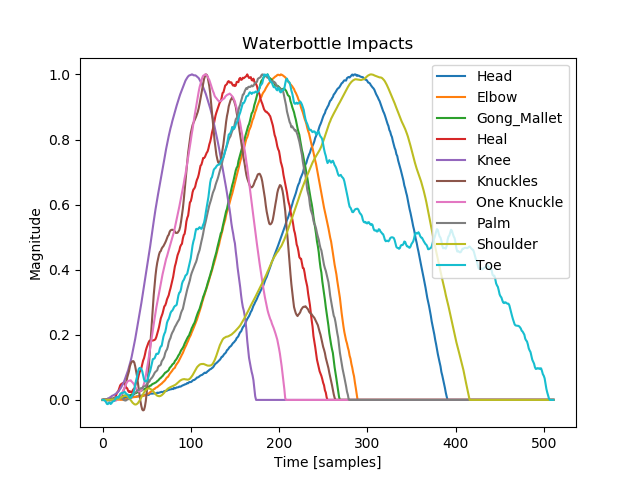
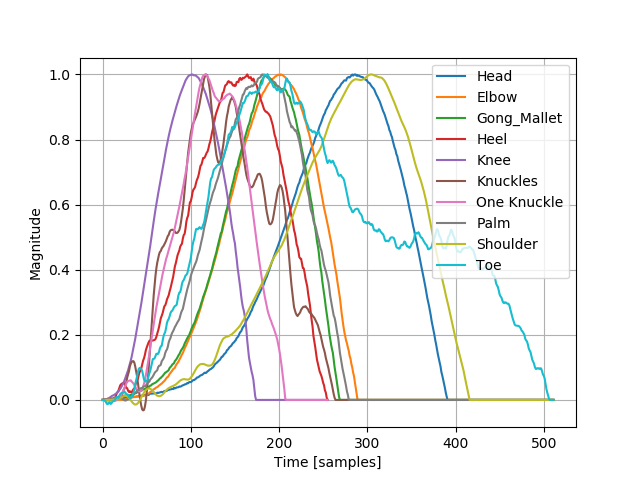
Update a bunch of plots [ci skip]

diff --git a/hydroflask_water_mode_analysis.py b/hydroflask_water_mode_analysis.py
@@ -12,39 +12,56 @@ x_long = np.linspace(0, 1, 100)
 # %%
 # plt.figure()
 # mode_freqs = np.abs(mode_data[:,0])
-# plt.plot(x, mode_freqs)
+# plt.scatter(x, mode_freqs, marker='x', color='r', label='Measured')
 
 # z_freq = np.polyfit(x, mode_freqs, 3)
 # p_freq = np.poly1d(z_freq)
-# plt.plot(x_long, p_freq(x_long))
+# plt.plot(x_long, p_freq(x_long), label='Modelled')
 # print('Freq function:')
 # print(p_freq)
 
-# plt.title('First mode frequency vs water amount')
+# # plt.title('First mode frequency vs water amount')
 # plt.ylabel('Frequency [Hz]')
 # plt.xlabel('Water as fraction of bottle volume')
 # plt.xticks(x, ['0', '1/32', '1/16', '1/8', '1/4', '1/2', '1'])
-# plt.legend(['Measured', 'Modelled'])
+# plt.legend()
+# plt.grid()
+# plt.savefig('Figures/Water_Freq.png')
 
 # %%
 plt.figure()
+colors = ['r', 'k']
 for i in range(2):
     mode_damps = np.abs(mode_data[:,40+i])
-    plt.plot(x, mode_damps, label='Mode #{}'.format(i+1))
+    tau_gains = np.exp(-1.0 / mode_damps)
+    t60s = np.log(0.001) / (48000 * np.log(tau_gains))
+    plt.scatter(x, t60s, label='Mode #{}'.format(i+1), marker='x', color=colors[i])
 
-mode_damps = np.mean(np.abs(mode_data[:,40:42]), axis=1)
-# plt.plot(x, mode_damps, label='Avg')
+mode_damps1 = np.mean(np.abs(mode_data[:,40:41]), axis=1)
+mode_damps2 = np.mean(np.abs(mode_data[:,41:42]), axis=1)
+mode_damps_avg = np.mean(np.abs(mode_data[:,40:42]), axis=1)
+# # plt.plot(x, mode_damps, label='Avg')
 
-z_damp = np.polyfit(x, mode_damps, 4)
-p_damp = np.poly1d(z_damp)
-plt.plot(x_long, p_damp(x_long), label='Model')
-print('Damp function:')
-print(p_damp)
+def model_mode_damp(mode_damps, label):
+    z_damp = np.polyfit(x, mode_damps, 4)
+    p_damp = np.poly1d(z_damp)
+    tau_gains = np.exp(-1.0 / p_damp(x_long))
+    t60s = np.log(0.001) / (48000 * np.log(tau_gains))
+    plt.plot(x_long, t60s, label=label)
+    # print('Damp function:')
+    # print(p_damp)
+
+model_mode_damp(mode_damps1, 'Mode 1 Model')
+model_mode_damp(mode_damps2, 'Mode 2 Model')
+model_mode_damp(mode_damps_avg, 'Avg Model')
 
 plt.legend()
-plt.title('First 2 modes damping vs water amount')
-plt.ylabel('Tau [gain/sample]')
+# plt.title('First 2 modes damping vs water amount')
+plt.ylabel(r'$T_{60}$ [seconds]')
 plt.xlabel('Water as fraction of bottle volume')
 plt.xticks(x, ['0', '1/32', '1/16', '1/8', '1/4', '1/2', '1'])
+plt.grid()
+plt.savefig('Figures/Water_Damping.png')
+
 # %%
 plt.show()

diff --git a/hydroflask_water_modes.py b/hydroflask_water_modes.py
@@ -1,5 +1,6 @@
 # %%
 from do_mode_fitting import *
+import scipy.stats as stats
 
 # %%
 # print(get_fields('HydroFlask.mat', 'HydroFlask'))
@@ -24,6 +25,7 @@ for m in modes:
 # get_mode_freqs(xs[i], modes[i])
 
 # %%
+PLOT=False
 mode_data = np.zeros((len(modes), 120), dtype=np.complex128)
 for i, m in enumerate(modes):
     x = xs[i]
@@ -35,6 +37,50 @@ for i, m in enumerate(modes):
     mode_data[i][:40] = freqs
     mode_data[i][40:80] = taus
     mode_data[i][80:] = amps
+
+    if PLOT:
+        # Pick modes
+        X = np.fft.rfft(x)
+        f = np.linspace(0, 48000/2, num=len(X))
+        maxX = np.max(np.abs(X))
+        plt.semilogx(f, 20 * np.log10(np.abs(X / maxX)), zorder=0)
+        plt.scatter(freqs, 20*np.log10(peaks / maxX), marker='x', color='r', zorder=1)
+        plt.ylabel('Magnitude [dB]')
+        plt.xlabel('Frequency [Hz]')
+        plt.xlim(100)
+        plt.ylim(-60)
+        plt.savefig('Figures/ModePick_ex.png')
+
+        # Decay rate
+        x_filt = adsp.filt_mode(x, freqs[0], 48000, 30)
+        env = adsp.normalize(adsp.energy_envelope(x_filt, 48000, 0.005))
+
+        start = int(np.argwhere(20 * np.log10(env) > -1)[0])
+        end = int(np.argwhere(20 * np.log10(env[start:]) < -20)[0])
+        slope, _, _, _, _ = stats.linregress(
+            np.arange(len(env[start:end])), 20 * np.log10(env[start:end]))
+
+        gamma = 10**(slope/20)
+        tau = -1 / np.log(gamma)
+
+        plt.figure()
+        # plt.title('Decay model for mode = {0:.2f} Hz'.format(freq))
+        n = np.arange(len(env))
+        plt.plot(n / 48000, 20*np.log10(x_filt))
+        plt.plot(n / 48000, 20*np.log10(env))
+        plt.plot(n / 48000, 20*np.log10(np.exp(-1.0 * n / tau)), color='r')
+        plt.xlabel('Time [s]')
+        plt.ylim(-20 * 2, 5)
+        plt.savefig('Figures/DecayFit_ex.png')
+
+        plt.figure()
+        plot_signals(x, y, title='')
+        plt.savefig('Figures/Model_ex.png')
+        
+        plt.show()
+        exit()
+
+
 
     # plt.figure()
     # plot_signals(x, y, title='HydroFlask {} Modal Model'.format(m['tag']))

diff --git a/impact_analysis.py b/impact_analysis.py
@@ -50,9 +50,9 @@ impacts.append(create_impact_dict('knucklesOne_meas2', 'One Knuckle', off=125))
 impacts.append(create_impact_dict('palm_meas5', 'Palm', off=125))
 impacts.append(create_impact_dict('shoulder_meas7', 'Shoulder', off=65))
 impacts.append(create_impact_dict('toe_meas1', 'Toe', off=90))
-impacts.append(create_impact_dict('fingerNails_meas2', 'Nail', off=60, skip=35, take=40))
-impacts.append(create_impact_dict('brush_damp_meas1', 'Brush', off=130, skip=35, take=45))
-impacts.append(create_impact_dict('dafxbottle_meas4', 'DAFx', off=160, skip=25, take=40))
+# impacts.append(create_impact_dict('fingerNails_meas2', 'Nail', off=60, skip=35, take=40))
+# impacts.append(create_impact_dict('brush_damp_meas1', 'Brush', off=130, skip=35, take=45))
+# impacts.append(create_impact_dict('dafxbottle_meas4', 'DAFx', off=160, skip=25, take=40))
 
 # %%
 def get_impact_response(impact_dict):
@@ -73,19 +73,20 @@ def get_impact_response(impact_dict):
 # %%
 impact_wavs = []
 plt.figure()
-plt.title('Waterbottle Impacts')
+# plt.title('Waterbottle Impacts')
 for i in impacts:
     impact_wavs.append(get_impact_response(i))
 plt.legend()
 plt.xlabel('Time [samples]')
 plt.ylabel('Magnitude')
-# plt.savefig('Figures/Impacts_time.png')
+plt.grid()
+plt.savefig('Figures/Impacts_time.png')
 
 # %%
 worN = np.logspace(1, 3.35, base=20, num=1000)
 legend = []
 plt.figure()
-plt.title('Waterbottle Impacts Frequency Responses')
+# plt.title('Waterbottle Impacts Frequency Responses')
 for idx, wav in enumerate(impact_wavs):
     adsp.plot_magnitude_response(wav, [1], worN=worN, fs=48000, norm=True)
     legend.append(impacts[idx]['name'])
@@ -93,6 +94,7 @@ for idx, wav in enumerate(impact_wavs):
 
 plt.legend(legend)
 plt.ylim(-60)
-# plt.savefig('Figures/Impacts_freq.png')
+plt.grid()
+plt.savefig('Figures/Impacts_freq.png')
 
 plt.show()

diff --git a/hydroflask_sticker_mode_analysis.py b/hydroflask_sticker_mode_analysis.py
@@ -20,12 +20,8 @@ def get_data(lamb, indL, indH):
 
 # mode_freqs = get_data(np.abs, None, 40)
 mode_taus = get_data(np.abs, 40, 80)
-# mode_amps = get_data(np.abs, 80, None)
-# mode_phases = get_data(np.angle, 80, None)
-mode_damps = np.exp(-1.0 / mode_taus)
-damp_norm = mode_damps[0,:]
-mode_damps /= damp_norm
-mode_taus_normalized = np.log(mode_damps)
+tau_gains = np.exp(-1.0 / mode_taus)
+t60s = np.log(0.001) / (48000 * np.log(tau_gains))
 
 # args = np.where(mode_taus_normalized[4,:] <= -0.0006)
 # print(args)
@@ -36,20 +32,23 @@ mode_taus_normalized = np.log(mode_damps)
 # %%
 # it seems like only the damping changes
 plt.figure()
-for i in range(len(mode_taus_normalized[0,:])):
-    plt.plot(x, mode_taus_normalized[:,i], label='Mode #{}'.format(i+1))
+for i in range(len(t60s[0,:10])):
+    plt.plot(x, t60s[:,i], label='Mode #{}'.format(i+1), marker='x')
 
-plt.title('Mode Dampings')
+# plt.title('Mode Dampings')
 plt.xlabel('Amount of Stickers')
-plt.ylabel('Tau')
+plt.ylabel(r'$T_{60}$ [seconds]')
+plt.legend()
+plt.grid()
+plt.savefig('Figures/StickerDamping.png')
 
 # %%
-slopes = []
-for i in range(len(mode_taus_normalized[0,:])):
-    z = np.polyfit(x, mode_taus_normalized[:,i], deg=1)
-    slopes.append(z[0])
+# slopes = []
+# for i in range(len(mode_taus_normalized[0,:])):
+#     z = np.polyfit(x, mode_taus_normalized[:,i], deg=1)
+#     slopes.append(z[0])
 
-print(slopes)
+# print(slopes)
 
 # %%
 # super-rough curve fit

diff --git a/vibrato_specgram.py b/vibrato_specgram.py
@@ -10,16 +10,16 @@ x = x[:,0] / 2**15
 
 f, t, Sxx = signal.spectrogram(x, fs, nperseg=2048, nfft=4096*8)
 Sxx /= np.max(np.abs(Sxx))
-plt.pcolormesh(t, f, 20*np.log10(np.abs(Sxx)), cmap='inferno', vmin=-120)
+plt.pcolormesh(t, f, 20*np.log10(np.abs(Sxx)), cmap='inferno', vmin=-100)
 plt.colorbar()
 plt.yscale('log')
 plt.gca().yaxis.set_major_formatter(ticker.ScalarFormatter())
 plt.ylim(60, 20000)
-plt.xlim(0, 4)
+plt.xlim(0, 3.2)
 
 plt.xlabel('Time [seconds]')
 plt.ylabel('Frequency [Hz]')
-plt.title('Synthesized Waterbottle with Swinging Vibrato')
+# plt.title('Synthesized Waterbottle with Swinging Vibrato')
 plt.savefig('Figures/Specgrams/Vibrato.png')
 
 plt.show()

diff --git a/do_mode_fitting.py b/do_mode_fitting.py
@@ -61,8 +61,8 @@ def plot_signals(x, y, title=''):
     f = np.linspace (0, 48000/2, num=len(Y))
     plt.semilogx (f, 20 * np.log10 (np.abs (X)))
     plt.semilogx (f, 20 * np.log10 (np.abs (Y)))
-    plt.xlim(20, 20000)
-    plt.ylim(-100)
+    plt.xlim(100, 20000)
+    plt.ylim(-60)
     plt.legend(['Measured Signal', 'Modal Model'])
     plt.xlabel('Frequency [Hz]')
     plt.ylabel('Magnitude [dB]')
